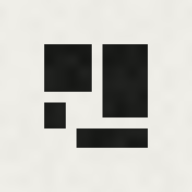
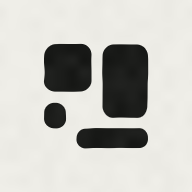
아이콘 몽글하게 + 그래프에서 끌기와 탭 구분

diff --git a/index.html b/index.html
@@ -2032,6 +2032,12 @@ function nodeAt(px,py){
   }
   return null;
 }
+/* 짧게 누르면 열고, 끌거나 길게 누르면 옮기기만 한다.
+   노드를 옮기려고 끌었을 뿐인데 사진이 열려버리는 걸 막는다. */
+const TAP_SLOP=6;   // 이만큼(px) 넘게 움직이면 "옮기려던 것"
+const TAP_MS=500;   // 이보다 오래 누르고 있었으면 "옮기려던 것"
+let press=null;
+
 function wireGraph(){
   cv=$("#cv"); ctx=cv.getContext("2d");
   const tip=$("#gtip");
@@ -2039,16 +2045,23 @@ function wireGraph(){
   cv.addEventListener("pointerdown",e=>{
     const r=rect(), px=e.clientX-r.left, py=e.clientY-r.top;
     const n=nodeAt(px,py);
-    cv.setPointerCapture(e.pointerId);
+    /* press 를 먼저 세운다. 캡처가 실패해도 탭/드래그 구분은 살아 있어야 한다. */
+    press={x:e.clientX,y:e.clientY,t:Date.now(),moved:false,used:false};
+    try{ cv.setPointerCapture(e.pointerId); }catch(_){}
     if(n){ dragN=n; n.grabbed={dx:0,dy:0}; alpha=Math.max(alpha,.35); }
     else { panning={x:e.clientX,y:e.clientY,vx:view.x,vy:view.y}; cv.classList.add("drag"); }
     kick();
   });
   cv.addEventListener("pointermove",e=>{
     const r=rect(), px=e.clientX-r.left, py=e.clientY-r.top;
+    if(press&&!press.moved){
+      const dx=e.clientX-press.x, dy=e.clientY-press.y;
+      if(dx*dx+dy*dy > TAP_SLOP*TAP_SLOP) press.moved=true;
+    }
     if(dragN){
       const p=toWorld(px,py);
       dragN.x=p.x; dragN.y=p.y; dragN.vx=dragN.vy=0;
+      cv.style.cursor="grabbing";   /* 옮기는 중이라는 신호 */
       alpha=Math.max(alpha,.3); kick(); return;
     }
     if(panning){
@@ -2073,13 +2086,21 @@ function wireGraph(){
   });
   const end=e=>{
     try{cv.releasePointerCapture(e.pointerId);}catch(_){}
-    if(dragN){ dragN=null; alpha=Math.max(alpha,.25); }
+    if(dragN){ dragN=null; alpha=Math.max(alpha,.25); cv.style.cursor="pointer"; }
     panning=null; cv.classList.remove("drag"); kick();
   };
   cv.addEventListener("pointerup",end);
   cv.addEventListener("pointercancel",end);
   cv.addEventListener("pointerleave",()=>{hoverN=null;$("#gtip").hidden=true;kick();});
   cv.addEventListener("click",e=>{
+    /* 끌어서 옮겼거나 오래 누르고 있었으면 열지 않는다 —
+       위치만 바꾸려던 것이지 들어가려던 게 아니다. */
+    const p=press;
+    if(!p||p.used) return;
+    p.used=true;
+    if(p.moved) return;
+    if(Date.now()-p.t > TAP_MS) return;
+
     const r=rect(); const n=nodeAt(e.clientX-r.left,e.clientY-r.top);
     if(!n) return;
     if(n.type==="item") openItem(n.ref.id);

diff --git a/sw.js b/sw.js
@@ -14,7 +14,7 @@
  * 아래 fetch 전략을 전부 "일단 캐시로 즉시 띄우고 뒤에서 새로 받아 교체"로
  * 짜두었다. 버전 갱신은 청소용이지 신선도용이 아니다.
  */
-const VERSION = "ca925ced6494"; /* BUILD */
+const VERSION = "011ddf0f8b50"; /* BUILD */
 
 const SHELL = `gusuk-shell-${VERSION}`;
 const FONTS = `gusuk-fonts-v1`; // 폰트는 URL 자체가 불변이라 버전을 따라갈 필요가 없다
